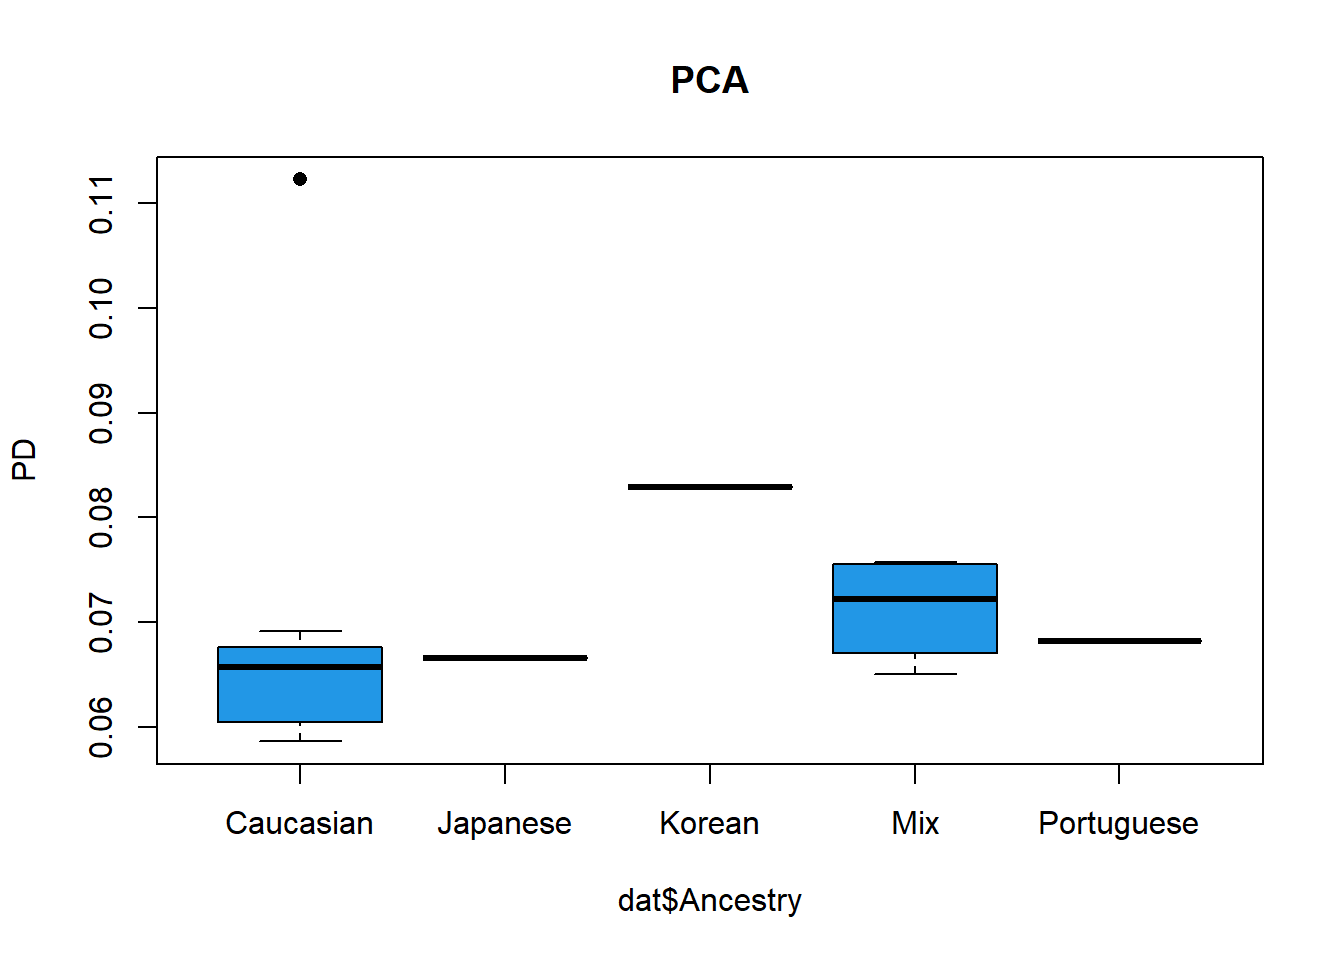
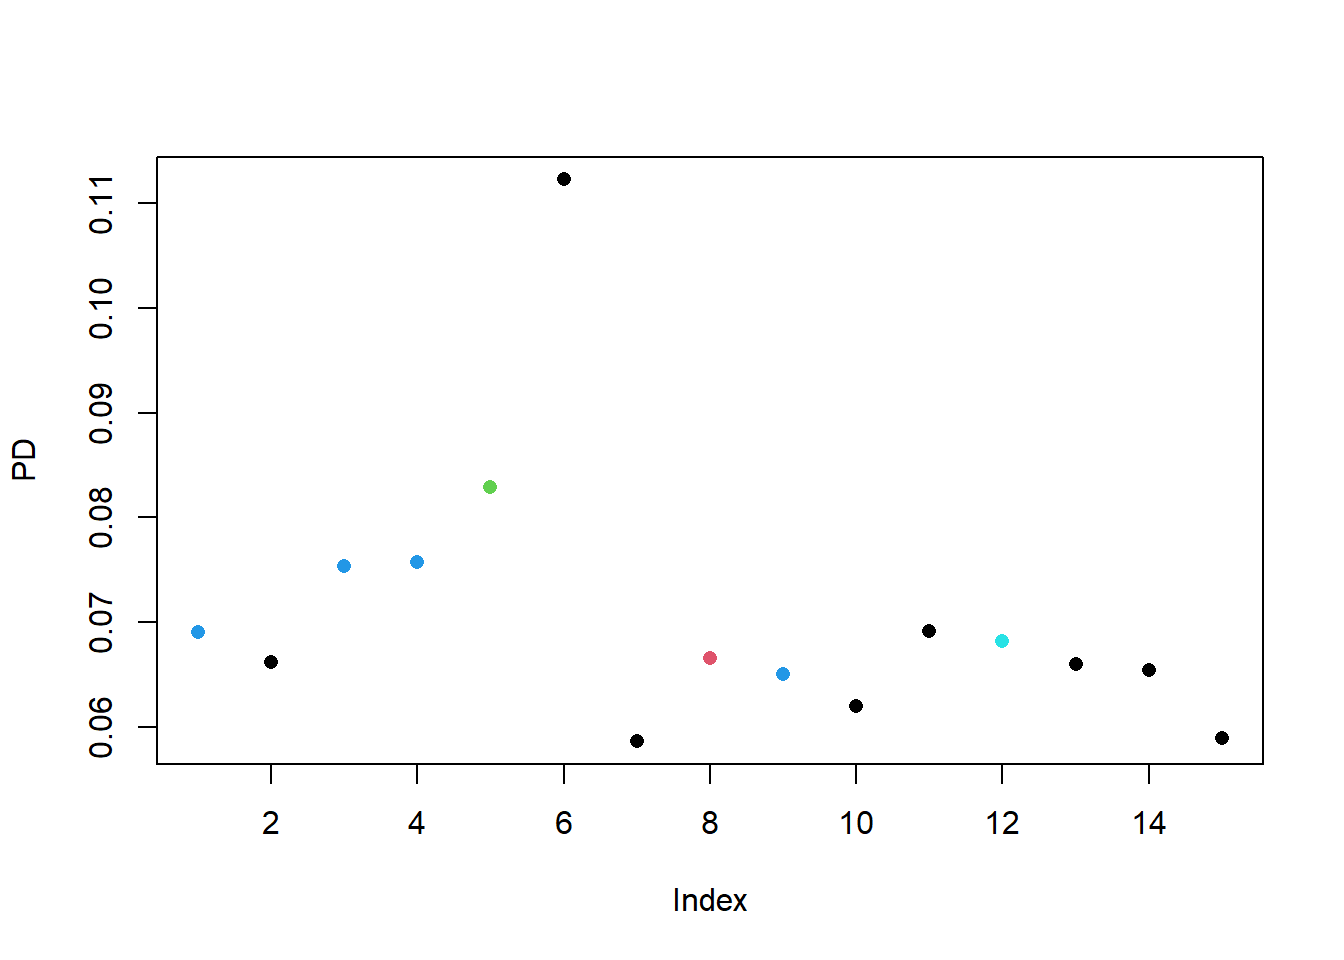
many

diff --git a/docs/data_processing.html b/docs/data_processing.html
@@ -320,9 +320,12 @@ $skipped
 <span id="cb8-3"><a href="#cb8-3" aria-hidden="true" tabindex="-1"></a>dat<span class="sc">$</span>Sex <span class="ot">&lt;-</span> <span class="fu">as.factor</span>(dat<span class="sc">$</span>Sex)</span>
 <span id="cb8-4"><a href="#cb8-4" aria-hidden="true" tabindex="-1"></a>dat<span class="sc">$</span>Age <span class="ot">&lt;-</span> <span class="fu">as.factor</span>(dat<span class="sc">$</span>Age)</span>
 <span id="cb8-5"><a href="#cb8-5" aria-hidden="true" tabindex="-1"></a>dat<span class="sc">$</span>Ancestry <span class="ot">&lt;-</span> <span class="fu">as.factor</span>(dat<span class="sc">$</span>Ancestry)</span>
-<span id="cb8-6"><a href="#cb8-6" aria-hidden="true" tabindex="-1"></a></span>
-<span id="cb8-7"><a href="#cb8-7" aria-hidden="true" tabindex="-1"></a>d1 <span class="ot">&lt;-</span> dat <span class="sc">%&gt;%</span> <span class="fu">relocate</span>(<span class="fu">where</span>(is.factor), <span class="at">.before =</span> proc_dist)</span>
-<span id="cb8-8"><a href="#cb8-8" aria-hidden="true" tabindex="-1"></a><span class="fu">skim</span>(d1[<span class="dv">1</span><span class="sc">:</span><span class="dv">6</span>], )</span></code><button title="Copy to Clipboard" class="code-copy-button"><i class="bi"></i></button></pre></div>
+<span id="cb8-6"><a href="#cb8-6" aria-hidden="true" tabindex="-1"></a><span class="fu">plot</span>(dat<span class="sc">$</span>Ancestry)</span></code><button title="Copy to Clipboard" class="code-copy-button"><i class="bi"></i></button></pre></div>
+<div class="cell-output-display">
+<p><img src="data_processing_files/figure-html/merge-1.png" class="img-fluid" width="672"></p>
+</div>
+<div class="sourceCode cell-code" id="cb9"><pre class="sourceCode r code-with-copy"><code class="sourceCode r"><span id="cb9-1"><a href="#cb9-1" aria-hidden="true" tabindex="-1"></a>d1 <span class="ot">&lt;-</span> dat <span class="sc">%&gt;%</span> <span class="fu">relocate</span>(<span class="fu">where</span>(is.factor), <span class="at">.before =</span> proc_dist)</span>
+<span id="cb9-2"><a href="#cb9-2" aria-hidden="true" tabindex="-1"></a><span class="fu">skim</span>(d1[<span class="dv">1</span><span class="sc">:</span><span class="dv">6</span>], )</span></code><button title="Copy to Clipboard" class="code-copy-button"><i class="bi"></i></button></pre></div>
 <div class="cell-output-display">
 <table class="table table-sm table-striped">
 <caption>Data summary</caption>
@@ -486,18 +489,18 @@ $skipped
 <h2 class="anchored" data-anchor-id="build-array-from-slicer-data">Build array from Slicer data</h2>
 <p>To work with coordinate data in r, <code>geomorph</code> requires that the information be formatted into an array by using <code>arrayspecs</code>.</p>
 <div class="cell">
-<div class="sourceCode cell-code" id="cb9"><pre class="sourceCode r code-with-copy"><code class="sourceCode r"><span id="cb9-1"><a href="#cb9-1" aria-hidden="true" tabindex="-1"></a>Coords <span class="ot">&lt;-</span> <span class="fu">arrayspecs</span>(SM.output[,<span class="sc">-</span><span class="fu">c</span>(<span class="dv">1</span><span class="sc">:</span><span class="dv">3</span>)],</span>
-<span id="cb9-2"><a href="#cb9-2" aria-hidden="true" tabindex="-1"></a><span class="at">p=</span>no.LM,</span>
-<span id="cb9-3"><a href="#cb9-3" aria-hidden="true" tabindex="-1"></a><span class="at">k=</span><span class="dv">3</span>)</span>
-<span id="cb9-4"><a href="#cb9-4" aria-hidden="true" tabindex="-1"></a></span>
-<span id="cb9-5"><a href="#cb9-5" aria-hidden="true" tabindex="-1"></a><span class="fu">dimnames</span>(Coords) <span class="ot">&lt;-</span> <span class="fu">list</span>(<span class="dv">1</span><span class="sc">:</span>no.LM,</span>
-<span id="cb9-6"><a href="#cb9-6" aria-hidden="true" tabindex="-1"></a><span class="fu">c</span>(<span class="st">"x"</span>,<span class="st">"y"</span>,<span class="st">"z"</span>),</span>
-<span id="cb9-7"><a href="#cb9-7" aria-hidden="true" tabindex="-1"></a>SM.log<span class="sc">$</span>ID)</span></code><button title="Copy to Clipboard" class="code-copy-button"><i class="bi"></i></button></pre></div>
+<div class="sourceCode cell-code" id="cb10"><pre class="sourceCode r code-with-copy"><code class="sourceCode r"><span id="cb10-1"><a href="#cb10-1" aria-hidden="true" tabindex="-1"></a>Coords <span class="ot">&lt;-</span> <span class="fu">arrayspecs</span>(SM.output[,<span class="sc">-</span><span class="fu">c</span>(<span class="dv">1</span><span class="sc">:</span><span class="dv">3</span>)],</span>
+<span id="cb10-2"><a href="#cb10-2" aria-hidden="true" tabindex="-1"></a><span class="at">p=</span>no.LM,</span>
+<span id="cb10-3"><a href="#cb10-3" aria-hidden="true" tabindex="-1"></a><span class="at">k=</span><span class="dv">3</span>)</span>
+<span id="cb10-4"><a href="#cb10-4" aria-hidden="true" tabindex="-1"></a></span>
+<span id="cb10-5"><a href="#cb10-5" aria-hidden="true" tabindex="-1"></a><span class="fu">dimnames</span>(Coords) <span class="ot">&lt;-</span> <span class="fu">list</span>(<span class="dv">1</span><span class="sc">:</span>no.LM,</span>
+<span id="cb10-6"><a href="#cb10-6" aria-hidden="true" tabindex="-1"></a><span class="fu">c</span>(<span class="st">"x"</span>,<span class="st">"y"</span>,<span class="st">"z"</span>),</span>
+<span id="cb10-7"><a href="#cb10-7" aria-hidden="true" tabindex="-1"></a>SM.log<span class="sc">$</span>ID)</span></code><button title="Copy to Clipboard" class="code-copy-button"><i class="bi"></i></button></pre></div>
 </div>
 <div class="cell">
-<div class="sourceCode cell-code" id="cb10"><pre class="sourceCode r code-with-copy"><code class="sourceCode r"><span id="cb10-1"><a href="#cb10-1" aria-hidden="true" tabindex="-1"></a>d1array.gpa <span class="ot">&lt;-</span> <span class="fu">gpagen</span>(Coords, <span class="at">print.progress=</span><span class="cn">FALSE</span>)</span>
-<span id="cb10-2"><a href="#cb10-2" aria-hidden="true" tabindex="-1"></a></span>
-<span id="cb10-3"><a href="#cb10-3" aria-hidden="true" tabindex="-1"></a><span class="fu">summary</span>(d1array.gpa)</span></code><button title="Copy to Clipboard" class="code-copy-button"><i class="bi"></i></button></pre></div>
+<div class="sourceCode cell-code" id="cb11"><pre class="sourceCode r code-with-copy"><code class="sourceCode r"><span id="cb11-1"><a href="#cb11-1" aria-hidden="true" tabindex="-1"></a>d1array.gpa <span class="ot">&lt;-</span> <span class="fu">gpagen</span>(Coords, <span class="at">print.progress=</span><span class="cn">FALSE</span>)</span>
+<span id="cb11-2"><a href="#cb11-2" aria-hidden="true" tabindex="-1"></a></span>
+<span id="cb11-3"><a href="#cb11-3" aria-hidden="true" tabindex="-1"></a><span class="fu">summary</span>(d1array.gpa)</span></code><button title="Copy to Clipboard" class="code-copy-button"><i class="bi"></i></button></pre></div>
 <div class="cell-output cell-output-stdout">
 <pre><code>
 Call:
@@ -573,7 +576,7 @@ Consensus (mean) Configuration
 54  0.024282284  0.107561862 -0.013055180
 55  0.008860913 -0.109513011 -0.014027568</code></pre>
 </div>
-<div class="sourceCode cell-code" id="cb12"><pre class="sourceCode r code-with-copy"><code class="sourceCode r"><span id="cb12-1"><a href="#cb12-1" aria-hidden="true" tabindex="-1"></a>Mshape.Coords<span class="ot">&lt;-</span><span class="fu">mshape</span>(Coords)</span></code><button title="Copy to Clipboard" class="code-copy-button"><i class="bi"></i></button></pre></div>
+<div class="sourceCode cell-code" id="cb13"><pre class="sourceCode r code-with-copy"><code class="sourceCode r"><span id="cb13-1"><a href="#cb13-1" aria-hidden="true" tabindex="-1"></a>Mshape.Coords<span class="ot">&lt;-</span><span class="fu">mshape</span>(Coords)</span></code><button title="Copy to Clipboard" class="code-copy-button"><i class="bi"></i></button></pre></div>
 </div>
 <p>To visualize the coordinate data (see below) I took the mean shape from the landmarks and plotted them to build a wire fram using <code>d1Links &lt;- define.links(Mshape.Coords, ptsize = 7, links = NULL)</code>. This is the code needed to initiate the construction of a wireframe. This code is not saved in my <code>data_processing.r</code> script. If in the code script, the analysis will pause and wait for the construction of a new wireframe each time it is run. Instead I ran the code once and saved the resulting data as a spreadsheet <code>d1Links.csv</code>. This file can be found in the <code>Data</code> folder.</p>
 <div id="fig" class="quarto-layout-panel">

diff --git a/docs/R_Analysis.html b/docs/R_Analysis.html
@@ -733,7 +733,7 @@ Signif. codes:  0 '***' 0.001 '**' 0.01 '*' 0.05 '.' 0.1 ' ' 1
 
 Call: procD.lm(f1 = Coords ~ Csize + Ancestry * Sex, data = gdf)</code></pre>
 </div>
-<div class="sourceCode cell-code" id="cb28"><pre class="sourceCode r code-with-copy"><code class="sourceCode r"><span id="cb28-1"><a href="#cb28-1" aria-hidden="true" tabindex="-1"></a><span class="fu">plot</span>(PD<span class="sc">~</span>dat<span class="sc">$</span>Ancestry, <span class="at">main =</span> <span class="st">"PCA"</span>,</span>
+<div class="sourceCode cell-code" id="cb28"><pre class="sourceCode r code-with-copy"><code class="sourceCode r"><span id="cb28-1"><a href="#cb28-1" aria-hidden="true" tabindex="-1"></a><span class="fu">plot</span>(PD,</span>
 <span id="cb28-2"><a href="#cb28-2" aria-hidden="true" tabindex="-1"></a><span class="at">col=</span>dat<span class="sc">$</span>Ancestry,</span>
 <span id="cb28-3"><a href="#cb28-3" aria-hidden="true" tabindex="-1"></a><span class="at">pch=</span><span class="dv">16</span>)</span></code><button title="Copy to Clipboard" class="code-copy-button"><i class="bi"></i></button></pre></div>
 <div class="cell-output-display">
